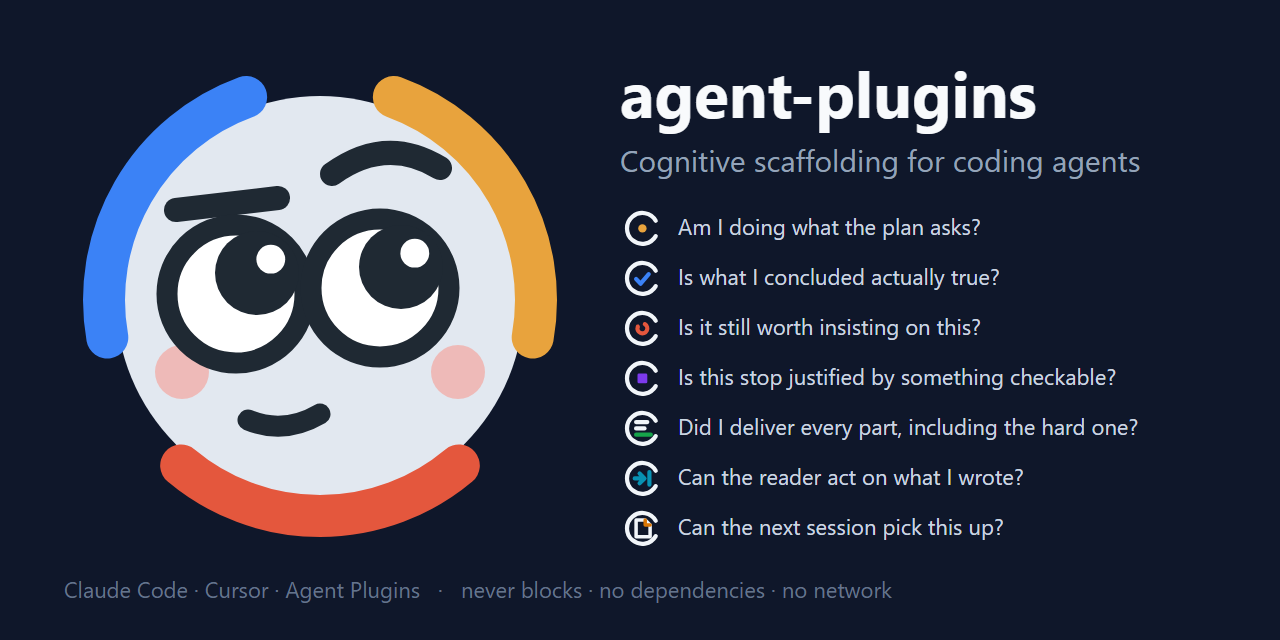
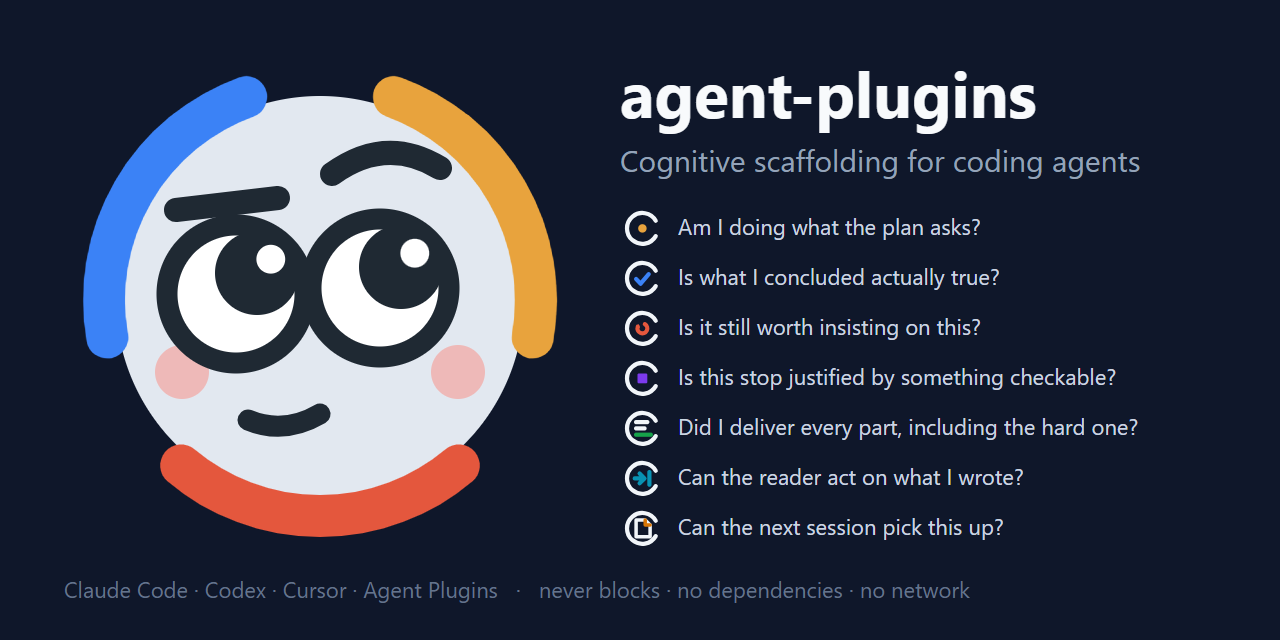
Refresh README onboarding and preview art

Changed region(s): [[0.1562, 0.9062, 0.7812, 0.9375]]

diff --git a/README.md b/README.md
@@ -17,10 +17,18 @@ part?*, *can the reader act on what I wrote?*, *can the next session pick this
 up?* — delivered as a nudge at the moment it is needed. They never block. They have no dependencies, make no network calls, and send
 nothing anywhere.
 
-## What your agent sees
+## What your agent sees — and what you see
 
-Four edits to the same file and three failed test runs into a turn, the agent
-gets this — from a hook, not from its own (absent) sense of frustration:
+A coding agent attends to what is in front of it: the file, the error, the
+next step. It does not keep count of how many times it has edited the same
+file, does not notice that its reason to stop is a phrase rather than a fact,
+does not know that the last session left two things open. These plugins put
+exactly those facts in front of it, one line at the moment they matter, and
+ask for one named block in return. The line is what the agent sees; the
+block is what you see.
+
+**What the agent sees.** Four edits to the same file and three failed test
+runs into a turn, a hook adds this to its context:
 
 ```
 [persistence self-monitoring] you have edited `src/parser.js` 4 times this
@@ -30,6 +38,34 @@ approach, Proportion, Decision. If nothing about the next attempt is new, say
 so to the user instead of trying again. (persistence-self-monitoring skill,
 "Core Protocol")
 ```
+
+**What you see.** The agent answers in its next message with the block the
+line asked for, and keeps working — or stops, with a reason you can check:
+
+```
+[PERSISTENCE CHECK]
+- Attempts: src/parser.js edited 4 times; `npm test` red 3 times, same assertion
+- Hypothesis held: the tokenizer drops the last field on CRLF input
+- Rival approach: normalise line endings before the split, not inside the tokenizer
+- Proportion: the request was a one-line fix; this is the third rewrite
+- Decision: switch — one try at the normalisation, then report
+```
+
+Seven such moments, one plugin each. Every one is anchored to something
+countable or on disk, never to "reflect harder":
+
+| What the hook puts in front of the agent | The question | What you read |
+|------|--------------|---------------|
+| the same file edited 4 times, a command failed 3 times | *is it worth another try?* | `[PERSISTENCE CHECK]` — [persistence](plugins/persistence-self-monitoring/) |
+| the first prompt, then every fifth | *am I still on the plan?* | `[PLAN CHECK]` — [executive](plugins/executive-self-monitoring/) |
+| a claim about to become a fact, a cause or a closure | *observed, or guessed?* | `[EPISTEMIC CLOSE]` — [epistemic](plugins/epistemic-self-monitoring/) |
+| a turn that ended on "I'm running out of context" | *a reason, or a phrase?* | `[TERMINATION CHECK]` — [termination](plugins/termination-self-monitoring/) |
+| three `TODO`s written this turn | *did I do the hard part?* | `[COVERAGE CHECK]` — [coverage](plugins/coverage-self-monitoring/) |
+| the tests just went green | *can the reader act on this?* | `[HANDOFF]` — [handoff](plugins/handoff-self-monitoring/) |
+| a session opening on a ledger with open items | *what did the last session leave?* | `.agent/progress.md` — [progress](plugins/progress-self-monitoring/) |
+
+<details>
+<summary>The other lines the agent sees, verbatim</summary>
 
 On the first turn of a session, and every fifth after that:
 
@@ -41,10 +77,6 @@ Decision (continue | refocus | revise-plan). Load the
 executive-self-monitoring skill if it is not already loaded for the rules
 behind them. Not a blocker; skip if this turn is trivial.
 ```
-
-And when it is about to declare "the cause is X", the epistemic skill asks it to
-write the claim with its evidence, its falsifier and its scope — so you can tell
-*observed* from *guessed* without asking.
 
 When a turn ends on "I'm running out of context, let's pick this up in a fresh
 session" — a reason the agent has read a thousand times and cannot actually
@@ -60,7 +92,7 @@ none), Evidence, Decision - or pick the work back up now.
 (termination-self-monitoring skill, "Core Protocol")
 ```
 
-And three `TODO`s into a turn:
+Three `TODO`s into a turn:
 
 ```
 [coverage self-monitoring] you have written 3 stub / placeholder / TODO
@@ -70,8 +102,8 @@ CHECK] as blocked or returned, with the reason. (coverage-self-monitoring
 skill, "Core Protocol")
 ```
 
-And when a session opens — or continues after a compaction — in a project
-whose ledger has something in it:
+When a session opens — or continues after a compaction — in a project whose
+ledger has something in it:
 
 ```
 [progress self-monitoring] `.agent/progress.md` has 2 open items, updated 2
@@ -81,8 +113,8 @@ close it, and keep Updated and Next current. (progress-self-monitoring skill,
 "Core Protocol")
 ```
 
-And when the tests go green after a run of edits — the moment the final
-message is about to be written:
+When the tests go green after a run of edits — the moment the final message is
+about to be written:
 
 ```
 [handoff self-monitoring] `npm test` passed - this turn looks close to its
@@ -92,15 +124,38 @@ with Default on its own line, Next. Trace detail below it.
 (handoff-self-monitoring skill, "Core Protocol")
 ```
 
+The epistemic line arrives when a claim is about to be closed on, and asks for
+the claim with its evidence, its falsifier and its scope — so you can tell
+*observed* from *guessed* without asking.
+
+</details>
+
 ## Quick start
+
+Pick your host. It is the same plugin folder on each; only the install
+command differs.
+
+**Claude Code**
 
 ```
 claude plugin marketplace add 3dgiordano/agent-plugins
 claude plugin install persistence-self-monitoring@3dgiordano-agent-plugins
 ```
 
-Swap in any of the other six, or install all seven. Codex, Cursor and other hosts:
-see [Install](#install).
+**Codex**
+
+```
+codex plugin marketplace add 3dgiordano/agent-plugins
+codex plugin add persistence-self-monitoring@3dgiordano-agent-plugins
+```
+
+then `/hooks` once in a `codex` session to trust the plugin's hooks.
+
+**Cursor** — Dashboard → Plugins → Add Marketplace → *Import from Repo*,
+`3dgiordano/agent-plugins`, then install from Customize → Plugins.
+
+Swap in any of the other six, or install all seven: [Install](#install) has
+the full lists and the per-host notes.
 
 ## What the hooks do — and don't
 

diff --git a/CHANGELOG.md b/CHANGELOG.md
@@ -7,6 +7,18 @@ release.
 
 ## [Unreleased]
 
+### Changed
+- **README: the first screen is for any host, and says what the reader gets.**
+  "What your agent sees — and what you see" separates the two: the line a
+  hook puts in front of the agent (a count, a file's age, a phrase it just
+  wrote) and the block the agent writes back, which is what the user reads.
+  One message and one answer in full, then a seven-row table - what the hook
+  shows, the question, the block you read; the other five messages, still
+  quoted verbatim and still checked by `samples.js`, fold under a details
+  block. Quick start gives the
+  install line for Claude Code, Codex and Cursor instead of assuming the
+  first. The social preview names Codex.
+
 ## [0.9.0] — 2026-09-21
 
 A third hooks host. OpenAI's Codex CLI turned out to expose the same six
